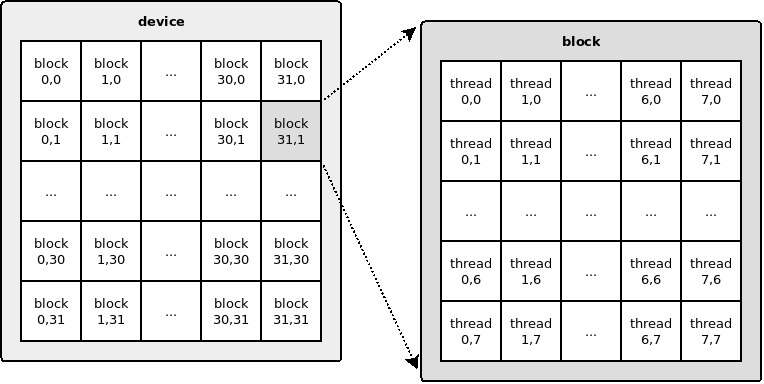
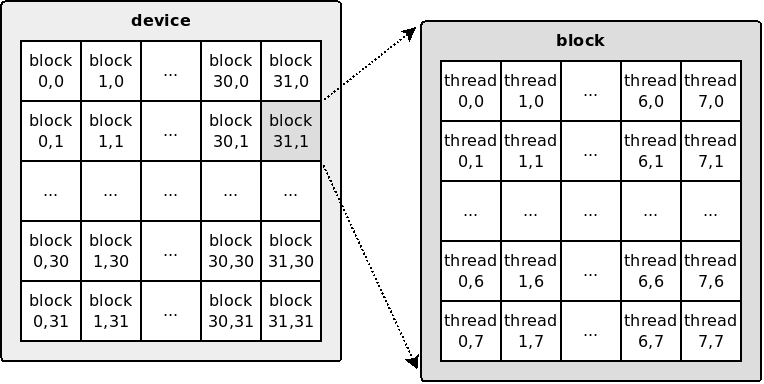
bigger fonts in grid.eps

diff --git a/gpus-cise.tex b/gpus-cise.tex
@@ -389,7 +389,7 @@ One of the strongest limitations compared to general computing is the communicat
 
 \begin{figure*}[!ht]
 \centering
-\includegraphics[width=1.0\textwidth]{grid.eps}
+\includegraphics[width=0.95\textwidth]{grid.eps}
 \caption{Execution model: A piece of data is called {\it work-item} (thread); a kernel has many work-items subdivided into many {\it work-groups} (thread blocks); each work-group process many work-items.}
 \label{figure:grid}
 \end{figure*}
@@ -402,7 +402,7 @@ Data storage and communication within a device and between devices, mainly CPU a
 
 \begin{figure*}[!ht]
 \centering
-\includegraphics[width=0.98\textwidth]{memory.eps}
+\includegraphics[width=0.95\textwidth]{memory.eps}
 \caption{Memory model defines how the data is stored and communicated between CPU and GPU. Global memory is RW for both CPU and work-items; constant memory is RW for CPU and RO for work-items; private memory is RW for a single work-item; local memory is RW for a work-group.}
 \label{figure:memory}
 \end{figure*}
